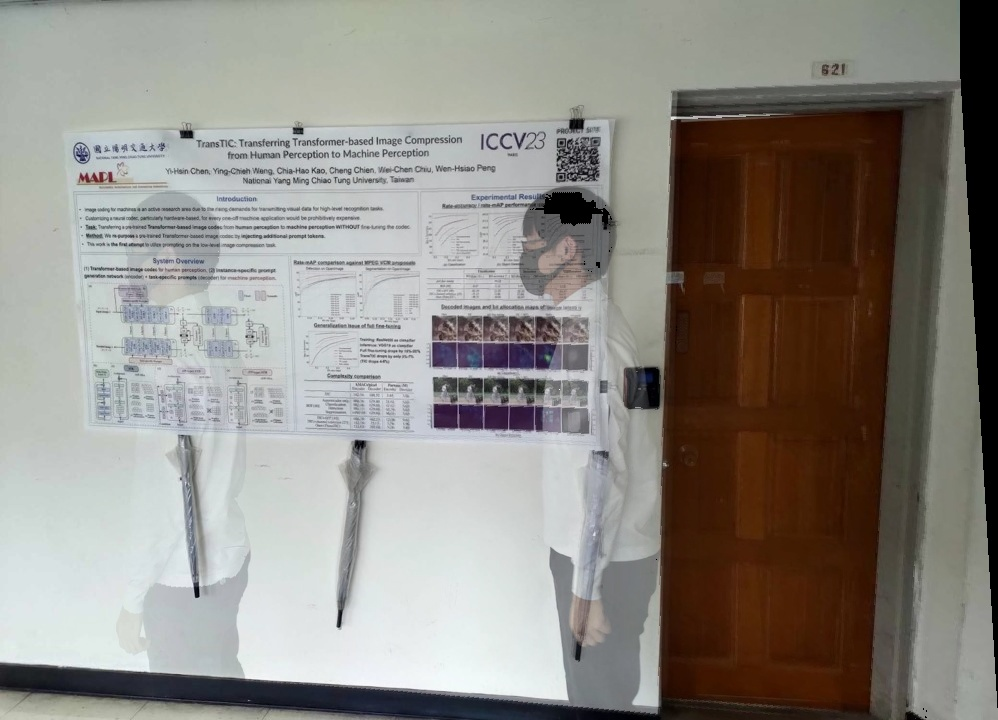
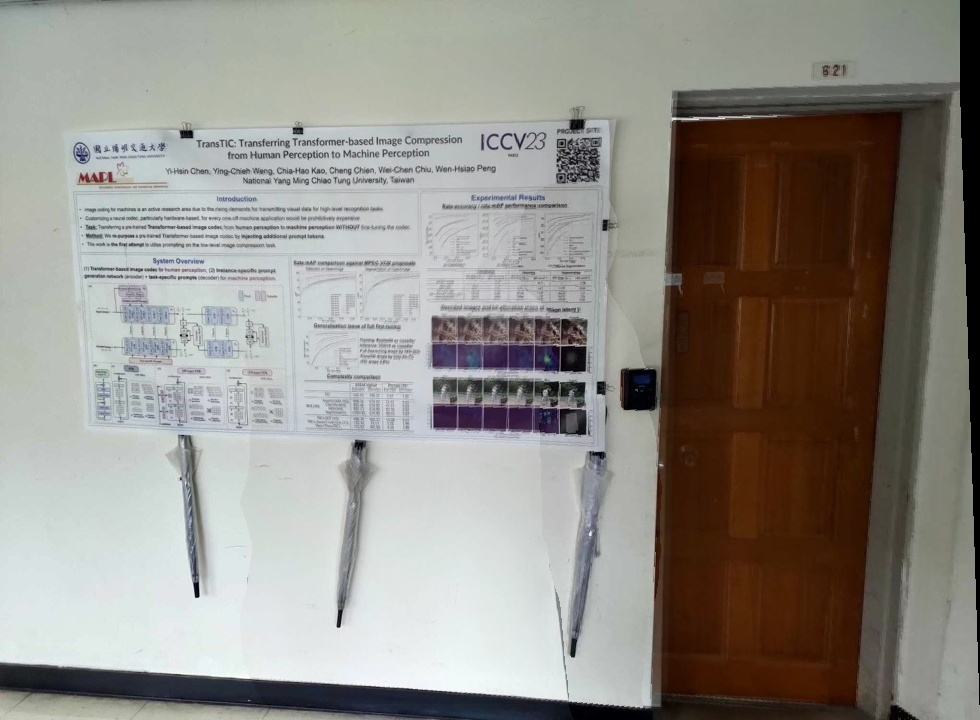
image stitching with masked images

diff --git a/model.py b/model.py
@@ -13,26 +13,28 @@ from PIL import Image
 
 from semseg.util import config
 from semseg.util.util import colorize
+from img_stitching import stitching
 
 cv2.ocl.setUseOpenCL(False)
 
-input_path = 'test/test_1.jpg'
-output_folder = 'result/'
+input_path1 = 'test/test_1.jpg'
+input_path2 = 'test/test_2.jpg'
+output_folder = 'result/mask/'
 config_path = 'semseg/config/project.yaml'
+output_path = 'result/result.jpg'
 
 
 def get_parser():
     parser = argparse.ArgumentParser(description='PyTorch Semantic Segmentation')
-    # parser.add_argument('--config', type=str, default='config/ade20k/ade20k_pspnet50.yaml', help='config file')
-    # parser.add_argument('--image', type=str, default='figure/demo/ADE_val_00001515.jpg', help='input image')
-    # parser.add_argument('opts', help='see config/ade20k/ade20k_pspnet50.yaml for all options', default=None, nargs=argparse.REMAINDER)
     args = parser.parse_args()
     args.config = config_path
-    args.image = input_path
+    args.image1 = input_path1
+    args.image2 = input_path2
     args.opts = None
     assert args.config is not None
     cfg = config.load_cfg_from_cfg_file(args.config)
-    cfg.image = args.image
+    cfg.image1 = args.image1
+    cfg.image2 = args.image2
     if args.opts is not None:
         cfg = config.merge_cfg_from_list(cfg, args.opts)
     return cfg
@@ -71,46 +73,6 @@ def check(args):
                         args.mask_w <= 2 * ((args.train_h - 1) // (8 * args.shrink_factor) + 1) - 1)
     else:
         raise Exception('architecture not supported yet'.format(args.arch))
-
-
-def main():
-    global args, logger
-    args = get_parser()
-    # args.image = input_path
-    check(args)
-    logger = get_logger()
-    os.environ["CUDA_VISIBLE_DEVICES"] = ','.join(str(x) for x in args.test_gpu)
-    #logger.info(args)
-    logger.info("=> creating model ...")
-    #logger.info("Classes: {}".format(args.classes))
-
-    value_scale = 255
-    mean = [0.485, 0.456, 0.406]
-    mean = [item * value_scale for item in mean]
-    std = [0.229, 0.224, 0.225]
-    std = [item * value_scale for item in std]
-    colors = np.loadtxt(args.colors_path).astype('uint8')
-
-    if args.arch == 'psp':
-        from semseg.model.pspnet import PSPNet
-        model = PSPNet(layers=args.layers, classes=args.classes, zoom_factor=args.zoom_factor, pretrained=False)
-    elif args.arch == 'psa':
-        from semseg.model.psanet import PSANet
-        model = PSANet(layers=args.layers, classes=args.classes, zoom_factor=args.zoom_factor, compact=args.compact,
-                       shrink_factor=args.shrink_factor, mask_h=args.mask_h, mask_w=args.mask_w,
-                       normalization_factor=args.normalization_factor, psa_softmax=args.psa_softmax, pretrained=False)
-    #logger.info(model)
-    model = torch.nn.DataParallel(model).cuda()
-    cudnn.benchmark = True
-    if os.path.isfile(args.model_path):
-        logger.info("=> loading checkpoint '{}'".format(args.model_path))
-        checkpoint = torch.load(args.model_path)
-        model.load_state_dict(checkpoint['state_dict'], strict=False)
-        logger.info("=> loaded checkpoint '{}'".format(args.model_path))
-    else:
-        raise RuntimeError("=> no checkpoint found at '{}'".format(args.model_path))
-    test(model.eval(), args.image, args.classes, mean, std, args.base_size, args.test_h, args.test_w, args.scales, colors)
-
 
 def net_process(model, image, mean, std=None, flip=True):
     input = torch.from_numpy(image.transpose((2, 0, 1))).float()
@@ -171,7 +133,7 @@ def scale_process(model, image, classes, crop_h, crop_w, h, w, mean, std=None, s
     return prediction
 
 
-def test(model, image_path, classes, mean, std, base_size, crop_h, crop_w, scales, colors):
+def remove_human(model, image_path, classes, mean, std, base_size, crop_h, crop_w, scales, colors):
     image = cv2.imread(image_path, cv2.IMREAD_COLOR)  # BGR 3 channel ndarray wiht shape H * W * 3
     image = cv2.cvtColor(image, cv2.COLOR_BGR2RGB)  # convert cv2 read image from BGR order to RGB order
     h, w, _ = image.shape
@@ -190,23 +152,67 @@ def test(model, image_path, classes, mean, std, base_size, crop_h, crop_w, scale
     prediction = np.argmax(prediction, axis=2)
 
     # Create a copy of the original image
-    color = np.copy(image)
+    mask = np.copy(image)
     # Set pixels corresponding to target_class to black
-    color[prediction == 12] = 0
+    mask[prediction == 12] = 0
     # Convert the NumPy array back to a PIL Image
-    color = Image.fromarray(color)
+    mask = Image.fromarray(mask)
 
 
     # gray = 類別
-    gray = np.uint8(prediction)
-    #color = colorize(gray, colors)
+    # gray = np.uint8(prediction)
+    # mask = colorize(gray, colors)
     image_name = image_path.split('/')[-1].split('.')[0]
     #gray_path = os.path.join('./result/', image_name + '_gray.png')
     color_path = os.path.join(output_folder, image_name + '_color.png')
     #cv2.imwrite(gray_path, gray)
-    color.save(color_path)
-    logger.info("=> Prediction saved in {}".format(color_path))
+    mask.save(color_path)
+    logger.info("=> Mask saved in {}".format(color_path))
+    mask = cv2.imread(color_path)
+    return mask
 
+
+def main():
+    global args, logger
+    args = get_parser()
+    check(args)
+    logger = get_logger()
+    os.environ["CUDA_VISIBLE_DEVICES"] = ','.join(str(x) for x in args.test_gpu)
+    logger.info("=> creating model ...")
+    #logger.info("Classes: {}".format(args.classes))
+
+    value_scale = 255
+    mean = [0.485, 0.456, 0.406]
+    mean = [item * value_scale for item in mean]
+    std = [0.229, 0.224, 0.225]
+    std = [item * value_scale for item in std]
+    colors = np.loadtxt(args.colors_path).astype('uint8')
+
+    if args.arch == 'psp':
+        from semseg.model.pspnet import PSPNet
+        model = PSPNet(layers=args.layers, classes=args.classes, zoom_factor=args.zoom_factor, pretrained=False)
+    elif args.arch == 'psa':
+        from semseg.model.psanet import PSANet
+        model = PSANet(layers=args.layers, classes=args.classes, zoom_factor=args.zoom_factor, compact=args.compact,
+                       shrink_factor=args.shrink_factor, mask_h=args.mask_h, mask_w=args.mask_w,
+                       normalization_factor=args.normalization_factor, psa_softmax=args.psa_softmax, pretrained=False)
+
+    model = torch.nn.DataParallel(model).cuda()
+    cudnn.benchmark = True
+    if os.path.isfile(args.model_path):
+        logger.info("=> loading checkpoint '{}'".format(args.model_path))
+        checkpoint = torch.load(args.model_path)
+        model.load_state_dict(checkpoint['state_dict'], strict=False)
+        logger.info("=> loaded checkpoint '{}'".format(args.model_path))
+    else:
+        raise RuntimeError("=> no checkpoint found at '{}'".format(args.model_path))
+    img1 = remove_human(model.eval(), args.image1, args.classes, mean, std, args.base_size, args.test_h, args.test_w, args.scales, colors)
+    img2 = remove_human(model.eval(), args.image2, args.classes, mean, std, args.base_size, args.test_h, args.test_w, args.scales, colors)
+
+    stitching(img1, img2, output_path)
+    # img1 = cv2.imread('result/test_1_color.jpg')
+    # img2 = cv2.imread('result/test_2_color.jpg')
+    #stitching(img1, img2, output_path)
 
 if __name__ == '__main__':
     main()

diff --git a/classes.py b/classes.py
@@ -190,7 +190,8 @@ class Stitcher:
                 # else we need the tranform for this pixel
                 stitch_img[i, j] = img_right[x, y]
             
-        
+        # cv.imwrite('./left.jpg', img_left)
+        # cv.imwrite('./right.jpg', stitch_img)
         # create the Blender object to blending the image
         blender = Blender()
         if (blending_mode == "linearBlending"):
@@ -264,6 +265,16 @@ class Blender:
         img_left, img_right = imgs
         (hl, wl) = img_left.shape[:2]
         (hr, wr) = img_right.shape[:2]
+        # print((hl, wl))
+        # print((hr, wr))
+        img_new = np.copy(img_right)
+        img_new[:hl, :wl] = np.copy(img_left)
+        img_left = np.copy(img_new)
+        for i in range(hl):
+            for j in range(wl):
+                if (np.count_nonzero(img_right[i, j]) > 0 and np.count_nonzero(img_left[i, j]) == 0):
+                    img_left[i, j] = img_right[i, j]
+        
         img_left_mask = np.zeros((hr, wr), dtype="int")
         img_right_mask = np.zeros((hr, wr), dtype="int")
         
@@ -288,7 +299,9 @@ class Blender:
         plt.figure(21)
         plt.title("overlap_mask")
         plt.imshow(overlap_mask.astype(int), cmap="gray")
+
         
+
         # compute the alpha mask to linear blending the overlap region
         alpha_mask = np.zeros((hr, wr)) # alpha value depend on left image
         for i in range(hr): 
@@ -305,17 +318,50 @@ class Blender:
             decrease_step = 1 / (maxIdx - minIdx)
             for j in range(minIdx, maxIdx + 1):
                 alpha_mask[i, j] = 1 - (decrease_step * (j - minIdx))
+
+            # check the region of extracted people
+            for j in range(wr):
+                if (img_right_mask[i, j] == 0):
+                    alpha_mask[i, j] = 1
+                elif (img_left_mask[i, j] == 0):
+                    alpha_mask[i, j] = 0
         
         
-        
-        linearBlending_img = np.copy(img_right)
-        linearBlending_img[:hl, :wl] = np.copy(img_left)
+        # linearBlending_img = np.copy(img_right)
+        # linearBlending_img[:hl, :wl] = np.copy(img_left)
+        linearBlending_img = np.copy(img_left)
+        # for i in range(hl):
+        #     for j in range(wl):
+        #         if (img_right_mask[i, j] != 0 and img_left_mask[i, j] == 0):
+        #             linearBlending_img[i, j] = img_right[]
+        # cv.imwrite('./test.jpg', linearBlending_img)
         # linear blending
         for i in range(hr):
             for j in range(wr):
                 if ( np.count_nonzero(overlap_mask[i, j]) > 0):
                     linearBlending_img[i, j] = alpha_mask[i, j] * img_left[i, j] + (1 - alpha_mask[i, j]) * img_right[i, j]
         
+        # for i in range(hl):
+        #     for j in range(wl):
+        #         linearBlending_img[i, j] = alpha_mask[i, j] * img_left[i, j] + (1 - alpha_mask[i, j]) * img_right[i, j]
+
+        # refine the boundary of holes
+        # for step in range(50):        
+        #     for i in range(hl):
+        #         flag = 0
+        #         for j in range(wl):
+        #             # enter the hole in img_left
+        #             if(alpha_mask[i, j] == 0 and flag == 0 and j > 0):
+        #                 flag = 1
+        #                 if(alpha_mask[i, j+step] == 0):
+        #                     linearBlending_img[i, j] = 0.4 * linearBlending_img[i, j] + 0.6 * linearBlending_img[i, j-1]
+        #                 else:
+        #                     continue
+        #             elif(alpha_mask[i, j] == 1 and flag == 1):
+        #                 flag = 0
+        #                 if(alpha_mask[i, j-step] == 0):
+        #                     linearBlending_img[i, j-step-1] = 0.6 * linearBlending_img[i, j-step] + 0.4 * linearBlending_img[i, j-step-1]
+
         return linearBlending_img
     def linearBlendingWithConstantWidth(self, imgs):
         '''

diff --git a/img_stitching.py b/img_stitching.py
@@ -4,28 +4,44 @@ import cv2 # cv2 version-> 3.4.2 (The version is important for using SIFT)
 import random # using for RANSAC algorithm
 from classes import Stitcher, Homography, Blender
 
+fileNameList = [('test_1_color', 'test_2_color')]
+src_path = "./result/mask/"
+saveFilePath = "./u4.jpg"
+adjust_ratio = 0.2
 
-if __name__ == "__main__":
+def adjust(img):
+    (h, w) = img.shape[:2]
+    for i in range(1, h):
+        for j in range(1, w):
+            img[i, j] = (img[i-1, j] + img[i, j-1]) * adjust_ratio / 2 + img[i, j] * (1 - adjust_ratio)
     
-    fileNameList = [('test_1', 'test_2')]
+    return img
+
+def stitching(img_left, img_right, saveFilePath):
+    
+    # The stitch object to stitch the image
+    blending_mode = "linearBlending" # three mode - noBlending、linearBlending、linearBlendingWithConstant
+    stitcher = Stitcher()
+    warp_img = stitcher.stitch([img_left, img_right], blending_mode)
+
+    # warp_img = adjust(warp_img)
+
+    # # plot the stitched image
+    # plt.figure(13)
+    # plt.title("warp_img")
+    # plt.imshow(warp_img[:,:,::-1].astype(int))
+
+    # save the stitched iamge
+    # saveFilePath = "./u4.jpg".format(fileName1, fileName2, blending_mode)
+    cv2.imwrite(saveFilePath, warp_img)
+    print("Result photo saved in", saveFilePath)
+        
+if __name__ == "__main__":
     for fname1, fname2 in fileNameList:
         # Read the img file
-        src_path = "./test/"
         fileName1 = fname1
         fileName2 = fname2
-        img_left = cv2.imread(src_path + fileName1 + ".jpg")
-        img_right = cv2.imread(src_path + fileName2 + ".jpg")
-        
-        # The stitch object to stitch the image
-        blending_mode = "linearBlending" # three mode - noBlending、linearBlending、linearBlendingWithConstant
-        stitcher = Stitcher()
-        warp_img = stitcher.stitch([img_left, img_right], blending_mode)
-
-        # # plot the stitched image
-        # plt.figure(13)
-        # plt.title("warp_img")
-        # plt.imshow(warp_img[:,:,::-1].astype(int))
-
-        # save the stitched iamge
-        saveFilePath = "./u4.jpg".format(fileName1, fileName2, blending_mode)
-        cv2.imwrite(saveFilePath, warp_img)
+        img_left = cv2.imread(src_path + fileName1 + ".png")
+        img_right = cv2.imread(src_path + fileName2 + ".png")
+    
+    stitching(img_left, img_right, saveFilePath)
